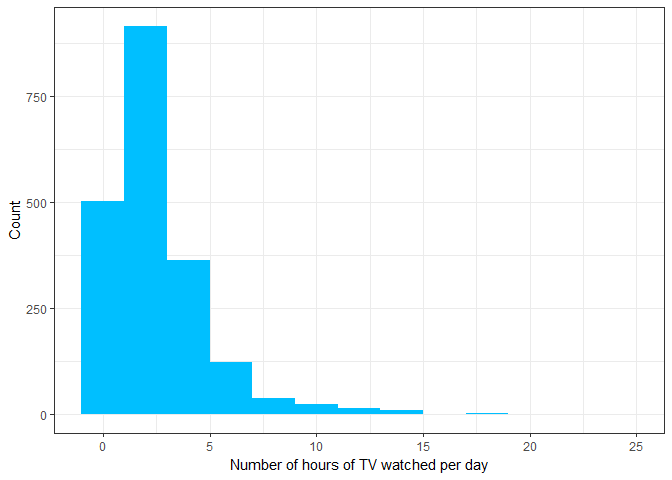
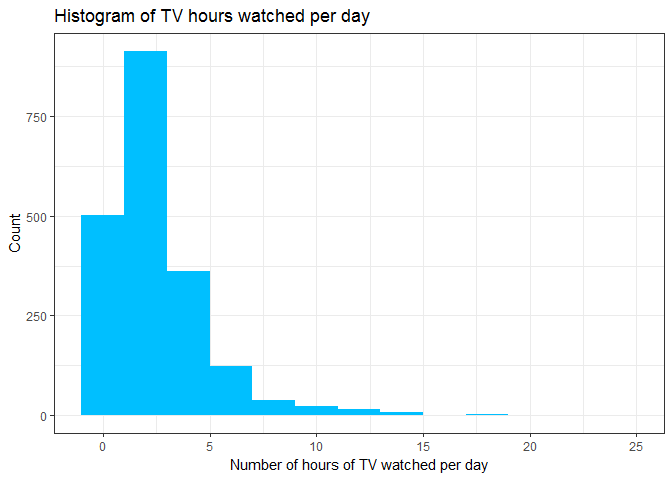
part 2 done

diff --git a/students/Lim_ChengYee/PS6/voter_turnout.md b/students/Lim_ChengYee/PS6/voter_turnout.md
@@ -8,7 +8,7 @@ Part 1: Modeling Voter Turnout
 
 ### Describe the data (1 point)
 
-1.  Plot a histogram of voter turnout. Make sure to give the graph a title and proper *x* and *y*-axis labels. What is the unconditional probability of a given individual turning out to vote?
+#### Plot a histogram of voter turnout. Make sure to give the graph a title and proper *x* and *y*-axis labels. What is the unconditional probability of a given individual turning out to vote?
 
 ``` r
 health %>% 
@@ -21,14 +21,14 @@ health %>%
                    labels = c("Did not vote", "Voted"))
 ```
 
-![](voter_turnout_files/figure-markdown_github/unnamed-chunk-1-1.png) 1. Generate a scatterplot of the relationship between mental health and observed voter turnout and overlay a linear smoothing line. What information does this tell us? What is problematic about this linear smoothing line?
+![](voter_turnout_files/figure-markdown_github/unnamed-chunk-1-1.png) Generate a scatterplot of the relationship between mental health and observed voter turnout and overlay a linear smoothing line. What information does this tell us? What is problematic about this linear smoothing line?
 
 ``` r
 health %>%
   filter(!is.na(mhealth_sum) & !is.na(vote96)) %>%
   ggplot(aes(x = mhealth_sum, y = vote96)) + 
   geom_point() + 
-  geom_smooth(model = "lm", color = "deepskyblue1") + 
+  geom_smooth(method = "lm", color = "deepskyblue1") + 
   labs(x = "Mental Health Index", 
        y = "Voter Turnout")
 ```
@@ -247,7 +247,10 @@ Pr(*Y*<sub>*i*</sub> = *y*<sub>*i*</sub>|*π*) = *π*<sub>*i*</sub><sup>*y*<
 health %>% 
   filter(!is.na(vote96)) %>%
   ggplot() + 
-  geom_histogram(aes(x = vote96, y = ..density..), fill = "deepskyblue1", na.rm = TRUE) + 
+  geom_histogram(aes(x = vote96, 
+                     y = ..density..), 
+                 fill = "deepskyblue1", 
+                 na.rm = TRUE) + 
   labs(x = "Voter Turnout") + 
   scale_x_continuous(breaks = c(0,1), 
                    labels = c("Did not vote", "Voted")) #fix density
@@ -312,7 +315,7 @@ gss <- read.csv("./data/gss2006.csv")
 
 ### Describe the data
 
-1.  Plot a histogram of voter turnout. Make sure to give the graph a title and proper *x* and *y*-axis labels. What is the unconditional probability of a given individual turning out to vote?
+`health` contains a subset of the 2006 General Social Survey of 4510 American individuals in 2006. The response variable `tvhours` contains a count of TV hours watched per day for each individual in 2006.
 
 ``` r
 gss %>% 
@@ -320,7 +323,8 @@ gss %>%
   ggplot() + 
   geom_histogram(aes(x = tvhours), fill = "deepskyblue1", binwidth=2) + 
   labs(x = "Number of hours of TV watched per day", 
-       y = "Count") 
+       y = "Count", 
+       title = "Histogram of TV hours watched per day") 
 ```
 
 ![](voter_turnout_files/figure-markdown_github/unnamed-chunk-11-1.png)
@@ -329,23 +333,23 @@ gss %>%
 
 Firstly, we assume our outcome variable, number of hours of TV watched, is drawn from a poisson distribution, where Pr(*T**V**h**o**u**r**s*<sub>*i*</sub> = *k*|*μ*) = (*μ*<sup>*k*</sup>*e*<sup>−*μ*</sup>) / *k*! .
 
-The linear predictor of our model is:
+In our model of predicting number of hours of TV watched per day, we include the following additional variables:
+1. `age` - Age (in years)
+2. `childs` - Number of children
+3. `educ` - Highest year of formal schooling completed
+4. `female` - 1 if female, 0 if male
+5. `hrsrelax` - Hours per day respondent has to relax
+6. `black` - 1 if respondent is black, 0 otherwise
+7. `social_connect` - Ordinal scale of social connectedness, with values low-moderate-high (0-1-2)
+8. `voted04` - 1 if respondent voted in the 2004 presidential election, 0 otherwise
+9. `xmovie` - 1 if respondent saw an X-rated movie in the last year, 0 otherwise
+
+Thus, the linear predictor of our model is:
 *η*<sub>*i*</sub> = *β*<sub>0</sub> + *β*<sub>1</sub>*a**g**e* + *β*<sub>2</sub>*c**h**i**l**d**r**e**n* + *β*<sub>3</sub>*e**d**u**c* + *β*<sub>4</sub>*f**e**m**a**l**e* + *β*<sub>5</sub>*h**r**s**r**e**l**a**x* + *β*<sub>6</sub>*b**l**a**c**k*
 +*β*<sub>7</sub>*s**o**c**i**a**l*<sub>*c*</sub>*o**n**n**e**c**t* + *β*<sub>8</sub>*v**o**t**e**d*04 + *β*<sub>9</sub>*x**m**o**v**i**e* + *ϵ*<sub>*i*</sub>
 
 The link function for the poisson distribution is:
 *μ*<sub>*i*</sub> = log(*η*<sub>*i*</sub>)
-
-`health` contains a subset of the 2006 General Social Survey of 4510 American individuals in 2006. The response variable `tvhours` contains a count of TV hours watched per day for each individual in 2006. Additional covariates in our model include:
-\* `age` - Age (in years)
-\* `childs` - Number of children
-\* `educ` - Highest year of formal schooling completed
-\* `female` - 1 if female, 0 if male
-\* `hrsrelax` - Hours per day respondent has to relax
-\* `black` - 1 if respondent is black, 0 otherwise
-\* `social_connect` - Ordinal scale of social connectedness, with values low-moderate-high (0-1-2)
-\* `voted04` - 1 if respondent voted in the 2004 presidential election, 0 otherwise
-\* `xmovie` - 1 if respondent saw an X-rated movie in the last year, 0 otherwise
 
 The results of the estimated multivariate poisson model is as follows:
 
@@ -388,7 +392,22 @@ summary(tv_hours)
     ## 
     ## Number of Fisher Scoring iterations: 5
 
-From the regression results, we can identify that only `educ`, `hrsrelax`, and `black` are statistically significant at a 5% significance level.
+From the regression results, we can identify that only `educ`, `hrsrelax`, and `black` are statistically significant at a 5% significance level. Since we used a multivariate poisson regression, the effects of variables will be calculated as exponential of the estimated parameters.
+
+``` r
+exp(coef(tv_hours))
+```
+
+    ##    (Intercept)            age         childs           educ         female 
+    ##      2.7231633      1.0010229      0.9949548      0.9732266      1.0125227 
+    ##       hrsrelax          black social_connect        voted04         xmovie 
+    ##      1.0480684      1.5440365      1.0323226      0.8826336      1.0997168
+
+#### Education and Ethnicity
+
+For a one year increase in maximum years of schooling, the number of TV hours watched per day is expected to decrease by 0.973, given the rest of the variables in the model are held constant. The decline in hours of TV watched per day as maximum education years increase can also be shown in by the overall decreasing trend in the line graphs below. This trend is also valid across black and non-black ethnicities
+
+Furthermore, a black individual is, on average, expected to watch 1.54 more hours of TV per day than a non-black individual, given that the rest of the variables in the model are held constant. The differential between hours of TV watched by an average black and non-black individual can be visualized with the disparity between the blue and red lines.
 
 ``` r
 gss %>%
@@ -399,10 +418,17 @@ gss %>%
   ggplot(aes(x = educ, y = pred)) +
   geom_line(aes(color = factor(black))) +
   labs(y = "Predicted Number of Hours of TV watched per day", 
-       x = "Maximum Years of Education")
+       x = "Maximum Years of Education") + 
+  scale_color_discrete(name = "Race", 
+                     breaks = c(0,1), 
+                     labels = c("Non-black", "Black"))
 ```
 
-![](voter_turnout_files/figure-markdown_github/unnamed-chunk-13-1.png)
+![](voter_turnout_files/figure-markdown_github/unnamed-chunk-14-1.png)
+
+#### Taste and Preferences
+
+Unsurprisingly, according to the regression results, individuals who devote more time to relaxation per day are more likely to watch more hours of television. For an hour increase in hours the respondent has to relax, the number of TV hours watched per day is expected to increase by 1.048, given the rest of the variables in the model are held constant.
 
 ``` r
 gss %>%
@@ -416,4 +442,47 @@ gss %>%
        x = "Hours per day Respondent has to Relax")
 ```
 
-![](voter_turnout_files/figure-markdown_github/unnamed-chunk-14-1.png)
+![](voter_turnout_files/figure-markdown_github/unnamed-chunk-15-1.png)
+
+#### Over or under-dispersion
+
+The dispersion parameter is 1.116. While the dispersion parameter is larger than 1, it is rather close to 1 so over-dispersion does not appear to be a significant problem.
+
+``` r
+tv_disp <- glm(tvhours ~ age + childs + educ + female + hrsrelax + black + social_connect + voted04 + xmovie, data = gss, family = "quasipoisson")
+summary(tv_disp)
+```
+
+    ## 
+    ## Call:
+    ## glm(formula = tvhours ~ age + childs + educ + female + hrsrelax + 
+    ##     black + social_connect + voted04 + xmovie, family = "quasipoisson", 
+    ##     data = gss)
+    ## 
+    ## Deviance Residuals: 
+    ##     Min       1Q   Median       3Q      Max  
+    ## -2.9656  -0.7125  -0.0833   0.4486   5.3006  
+    ## 
+    ## Coefficients:
+    ##                 Estimate Std. Error t value Pr(>|t|)    
+    ## (Intercept)     1.001794   0.206888   4.842 1.74e-06 ***
+    ## age             0.001022   0.002789   0.366   0.7142    
+    ## childs         -0.005058   0.023157  -0.218   0.8272    
+    ## educ           -0.027138   0.011929  -2.275   0.0234 *  
+    ## female          0.012445   0.063657   0.196   0.8451    
+    ## hrsrelax        0.046949   0.010075   4.660 4.11e-06 ***
+    ## black           0.434400   0.072940   5.956 5.03e-09 ***
+    ## social_connect  0.031811   0.039429   0.807   0.4202    
+    ## voted04        -0.124845   0.073675  -1.695   0.0908 .  
+    ## xmovie          0.095053   0.071165   1.336   0.1823    
+    ## ---
+    ## Signif. codes:  0 '***' 0.001 '**' 0.01 '*' 0.05 '.' 0.1 ' ' 1
+    ## 
+    ## (Dispersion parameter for quasipoisson family taken to be 1.093068)
+    ## 
+    ##     Null deviance: 578.52  on 487  degrees of freedom
+    ## Residual deviance: 480.02  on 478  degrees of freedom
+    ##   (4022 observations deleted due to missingness)
+    ## AIC: NA
+    ## 
+    ## Number of Fisher Scoring iterations: 5
